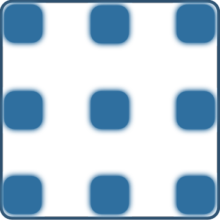
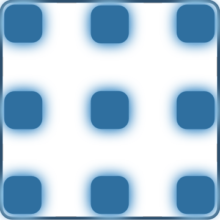
Pin sidebar tab labels to fixed width

diff --git a/src-tauri/src/ui.rs b/src-tauri/src/ui.rs
@@ -532,19 +532,46 @@ impl PingApp {
                                         });
                                     } else {
                                         ui.horizontal(|ui| {
-                                            let tab_label = (
-                                                RichText::new(indicator).color(UI_ACCENT),
-                                                RichText::new(name.clone()),
+                                            let (tab_rect, tab_response) = ui.allocate_exact_size(
+                                                egui::vec2(row_width - 80.0, 28.0),
+                                                egui::Sense::click(),
                                             );
-                                            let name_response = ui.add(
-                                                egui::Button::new(tab_label)
-                                                    .selected(active)
-                                                    .frame(false)
-                                                    .truncate()
-                                                    .gap(6.0)
-                                                    .min_size(egui::vec2(row_width - 80.0, 28.0)),
+                                            let font_id =
+                                                egui::TextStyle::Button.resolve(ui.style());
+                                            let mut tab_text = egui::text::LayoutJob::default();
+                                            tab_text.wrap.max_width = tab_rect.width();
+                                            tab_text.wrap.max_rows = 1;
+                                            tab_text.wrap.break_anywhere = true;
+                                            tab_text.append(
+                                                indicator,
+                                                0.0,
+                                                egui::TextFormat::simple(
+                                                    font_id.clone(),
+                                                    UI_ACCENT,
+                                                ),
                                             );
-                                            if name_response.clicked() {
+                                            tab_text.append(
+                                                "  ",
+                                                0.0,
+                                                egui::TextFormat::simple(
+                                                    font_id.clone(),
+                                                    UI_ACCENT,
+                                                ),
+                                            );
+                                            tab_text.append(
+                                                &name,
+                                                0.0,
+                                                egui::TextFormat::simple(font_id.clone(), UI_TEXT),
+                                            );
+                                            let galley = ui.painter().layout_job(tab_text);
+                                            let text_offset =
+                                                (tab_rect.height() - galley.size().y) / 2.0;
+                                            ui.painter().galley(
+                                                tab_rect.left_top() + egui::vec2(0.0, text_offset),
+                                                galley,
+                                                UI_TEXT,
+                                            );
+                                            if tab_response.clicked() {
                                                 self.selected_id = Some(id.clone());
                                             }
                                             if ui
